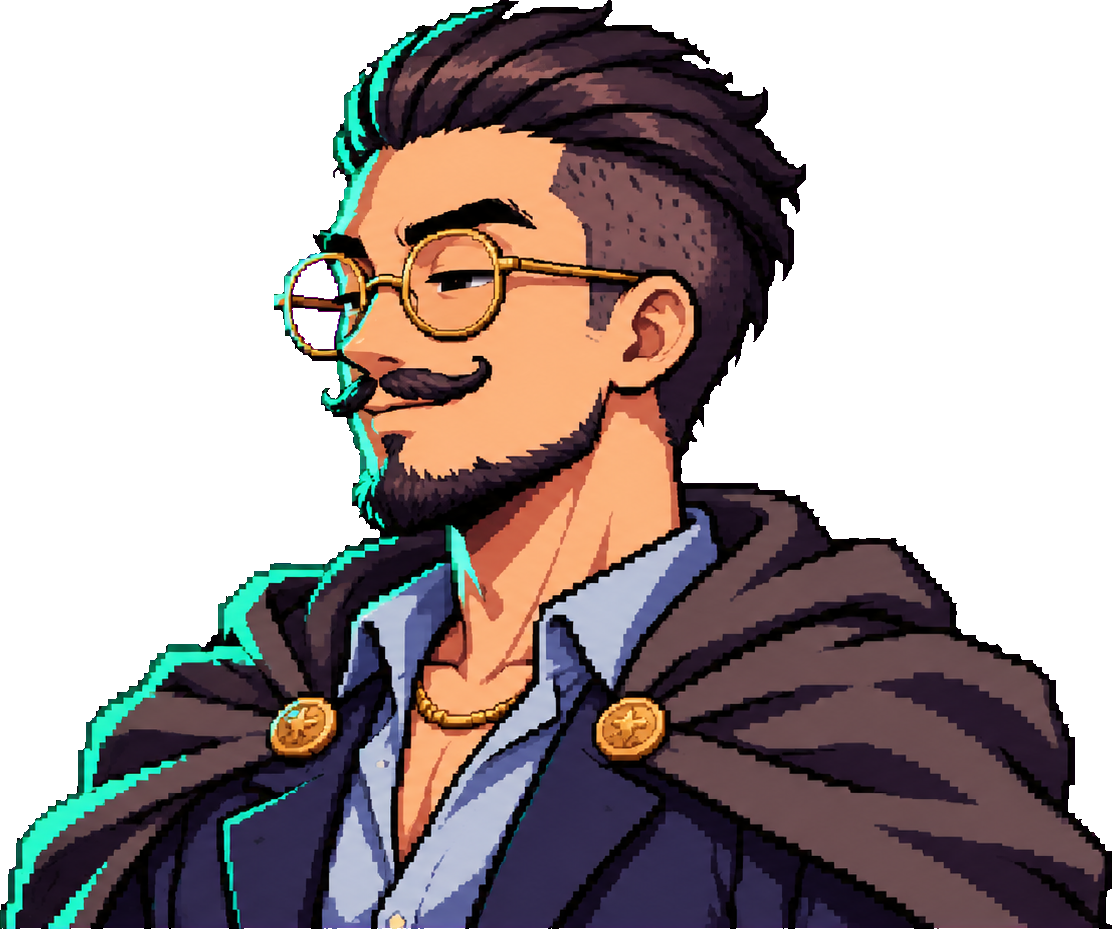
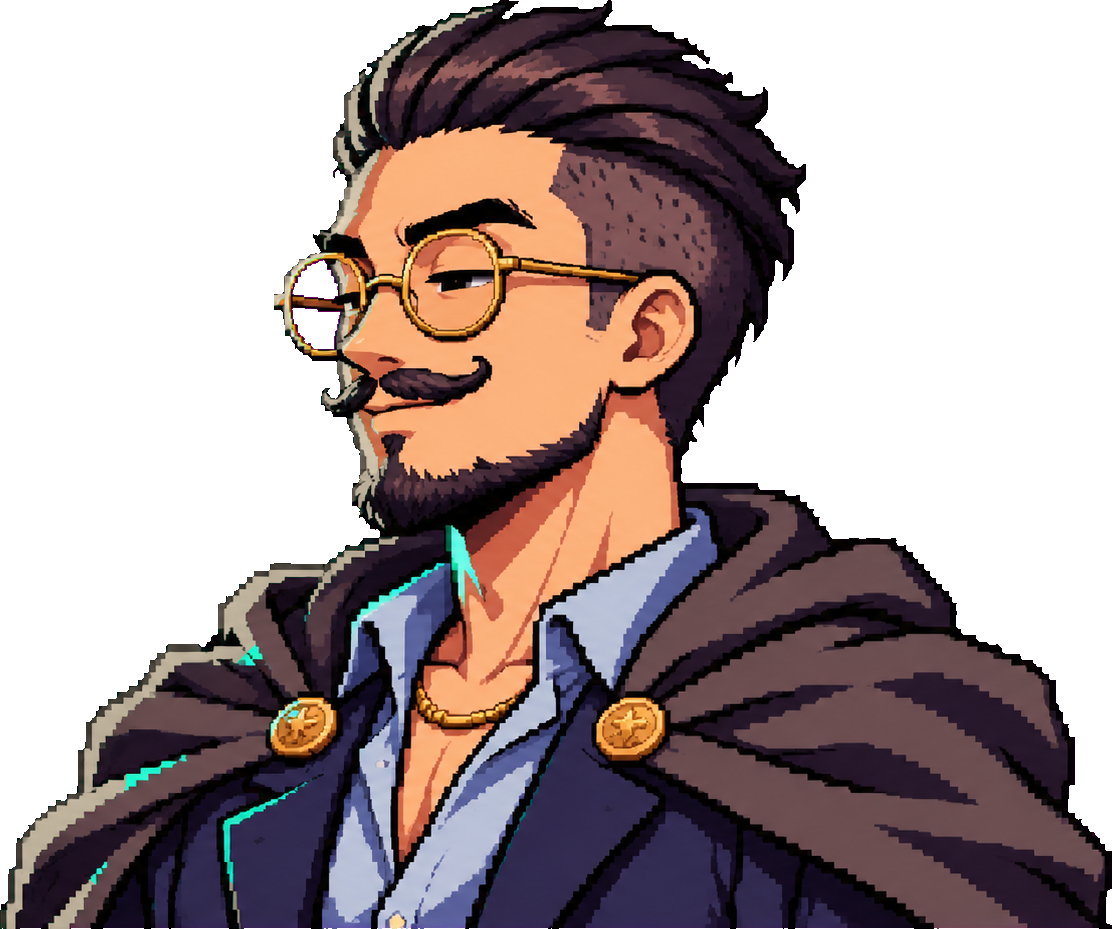
第三輪 UX 巡檢：超級狀態的標記、氣焰調淡、二週目開放的說明
- 超級狀態的人頭上有「超級　剩 N 回合」，議程頭像換成超級版；結束時用橫幅
- 氣焰調淡調窄；超級化的說明縮短
- 通關報告標出二週目開放與新內容；選週目預設最新；帶誰的卡片標可以超級化
- 老油條半身像的青綠邊光改成中性色

Changed region(s): [[0.0, 0.0312, 0.3975, 1.0], [0.3975, 0.0, 0.4281, 0.0312]]

diff --git a/js/game.js b/js/game.js
@@ -236,19 +236,21 @@ function playAutoSub(list, t0) { let t = t0; for (const x of list) { const out =
 // 候補區倒下的人被救起來：人不在場上，用橫幅講
 const benchUp = (t, id) => { box(t, 1.5, `候補的${DEFS[id].name}站起來了`); snd(t, 'holy_cast', .6); };
 // ---------- 超級化的演出（結構學使用者龍珠專案的變身影片 angaSs：整片底色＋中間一條黑帶放人物、黑帶上下震、氣焰三格循環、人物在一般版和超級版之間閃切先慢後快、最後定在超級版）----------
-const superOn = {}, auras = {}; let auraCv = null, auraTex = null; const tintCv = {};
+const superOn = {}, auras = {}, faceBase = {}; let auraCv = null, auraTex = null; const tintCv = {};
 // 氣焰：三張 40×56 的像素火焰（中間高、兩邊低、邊緣鋸齒），影片和場景共用
 function auraFrames() { if (auraCv) return auraCv; auraCv = [0, 1, 2].map(k => { const cv = document.createElement('canvas'), Wd = 40, Ht = 56; cv.width = Wd; cv.height = Ht; const x = cv.getContext('2d'), rn = (i, j) => { const v = Math.sin(i * 127.1 + j * 311.7 + k * 74.7) * 43758.5453; return v - Math.floor(v); };
     for (let i = 0; i < Wd; i++) { const cx = Math.abs(i - (Wd - 1) / 2) / (Wd / 2), spike = (i + k * 2) % 5 === 0 ? -9 : (i + k) % 3 === 0 ? -4 : 0, top = Math.max(0, Math.round(Ht * (.1 + .62 * cx * cx) + spike * (1 - cx * .5) + rn(i, 0) * 4));
       for (let j = top; j < Ht; j++) { const d = (j - top) / Math.max(1, Ht - top), rim = cx > .78 - .2 * d; if (rim && rn(i, j) > .6) continue; x.fillStyle = d < .14 || rim ? '#ff9a1e' : d < .42 ? '#ffd24a' : '#fff3b8'; x.fillRect(i, j, 1, 1); } } return cv; }); return auraCv; }
 function auraMesh() { if (!auraTex) auraTex = auraFrames().map(cv => { const t = new THREE.CanvasTexture(cv); t.magFilter = t.minFilter = THREE.NearestFilter; t.generateMipmaps = false; t.colorSpace = THREE.SRGBColorSpace; return t; });
-  const g = new THREE.PlaneGeometry(1, 1); g.translate(0, .5, 0); const m = new THREE.Mesh(g, new THREE.MeshBasicMaterial({ map: auraTex[0], transparent: true, opacity: .5, blending: THREE.AdditiveBlending, depthWrite: false, side: THREE.DoubleSide })); m.position.set(0, -.06, -.03); m.renderOrder = 1; return m; }
+  const g = new THREE.PlaneGeometry(1, 1); g.translate(0, .5, 0); const m = new THREE.Mesh(g, new THREE.MeshBasicMaterial({ map: auraTex[0], transparent: true, opacity: .3, blending: THREE.AdditiveBlending, depthWrite: false, side: THREE.DoubleSide })); m.position.set(0, -.06, -.05); m.renderOrder = 1; return m; }
 // 換造型：有超級版的圖就整組換，沒有就先染金色；身後加氣焰
-function setSuper(id, on) { const u = units[id]; if (!u || !!superOn[id] === !!on) return; superOn[id] = !!on; if (!u.baseFrames) { u.baseFrames = u.frames; u.baseS = u.s; u.baseCol = u.baseColor.clone(); }
+function setSuper(id, on) { const u = units[id]; if (!u || !!superOn[id] === !!on) return; superOn[id] = !!on; if (!faceBase[id]) faceBase[id] = A.face[id]; A.face[id] = on && A.face['s_' + id] ? A.face['s_' + id] : faceBase[id]; if (!u.baseFrames) { u.baseFrames = u.frames; u.baseS = u.s; u.baseCol = u.baseColor.clone(); }
   if (on && u.superFrames) { u.frames = u.superFrames; u.s = u.superS; } else { u.frames = u.baseFrames; u.s = u.baseS; } u.baseColor.copy(on && !u.superFrames ? new THREE.Color(0xffe39a) : u.baseCol);
   if (on && !auras[id]) { auras[id] = auraMesh(); u.group.add(auras[id]); } if (auras[id]) auras[id].visible = !!on; }
 const syncSuper = () => { for (const id of R.SUPERS) if (units[id]) setSuper(id, R.HEROES.includes(id) && R.isSuper(state, id)); };
-function tickSuper() { for (const id in auras) { const m = auras[id], u = units[id]; if (!m.visible) continue; m.material.map = auraTex[Math.floor(now * 13) % 3]; const rd = u.frames.ready.image; m.scale.set(rd.width / PPU * u.s * 2.1, rd.height / PPU * u.s * 1.38 * (1 + .03 * Math.sin(now * 21)), 1); } }
+// 場上：超級狀態的人頭上掛一張小牌，寫還剩幾回合（子 session 巡檢：變身後看不出誰是超級狀態）
+function drawSuperTags() { if (!['command', 'anim'].includes(phase) || S.film || panel || conf || sheet) return; for (const id of R.HEROES) { if (!superOn[id] || ko[id] || !R.isSuper(state, id) || !units[id] || !units[id].group.visible) continue; const [x, y] = S.proj(id, 1.0), lab = `超級　剩 ${state.super[id]} 回合`, w = mw(lab, 24, 900) + 28; c.fillStyle = 'rgba(30,14,0,.82)'; c.fillRect(x - w / 2, y - 112, w, 36); c.fillStyle = '#d8a02a'; c.fillRect(x - w / 2, y - 112, w, 3); text(lab, x, y - 86, { px: 24, w: 900, align: 'center', col: '#ffe27a' }); } }
+function tickSuper() { for (const id in auras) { const m = auras[id], u = units[id]; if (!m.visible) continue; m.material.map = auraTex[Math.floor(now * 13) % 3]; const rd = u.frames.ready.image; m.scale.set(rd.width / PPU * u.s * 1.55, rd.height / PPU * u.s * 1.3 * (1 + .03 * Math.sin(now * 21)), 1); } }
 function playSuper(r, t0) { const id = r.id, D = 4.4; S.film = { t0, id, dur: D }; snd(t0 + .5, 'boss_charge', .8); snd(t0 + 3.0, 'explosion_big', .6); snd(t0 + 3.05, 'holy_cast', .8); units[id].pose(t0, 'wind');
   at(t0 + 3.0, () => { setSuper(id, true); units[id].pose(now, 'ready'); }); S.hp[id].push({ t: t0 + 3.3, v: r.hp }); S.mo.push({ t: t0 + 3.3, v: r.mo }); cam.shake(t0 + D - .1, .16, .5); SFX.add('flash', t0 + D - .15, .45, { c: [255, 236, 160], a: .7 });
   at(t0 + D, () => { units[id].hop(now, .3, .4); syncBars(now); }); num(t0 + D + .05, id, '超級化！', 'text', { col: '#ffe27a', px: 38, y: 1.55 }); return t0 + D + .6; }
@@ -540,7 +542,7 @@ function nextTurn() {
     state.events.filter(e => e.kind === 'burn').forEach((e, i) => { const t = now + .55 + i * .3, big = e.dst === 'boss'; fx('explosions/small-explosion', t - .1, e.dst, { scale: big ? 1.5 : 1, y: big ? 1.0 : .3, palette: 'fire' }); num(t - .2, e.dst, '灼燒', 'text', { col: '#ff9a5a', px: 28, y: big ? .75 : 1.3 }); applyHit(t, { dst: e.dst, v: e.v, hp: e.hp, kill: e.kill }, { snd: 'hit', vol: .5 }); te = Math.max(te, t + .75); });
     state.events.filter(e => e.kind === 'poison').forEach((e, i) => { const t = now + .6 + i * .25, big = e.dst === 'boss'; num(t - .2, e.dst, '中毒', 'text', { col: '#b8e07a', px: 28, y: big ? .75 : 1.3 }); applyHit(t, { dst: e.dst, v: e.v, hp: e.hp, kill: e.kill }, { snd: sfxOr('poison', 'hit'), vol: .45 }); te = Math.max(te, t + .7); });
     state.events.filter(e => e.kind === 'rage').forEach(e => { sndIf(now + 1.0, 'rage', .7); box(now + 1.0, 1.4, `拖太久了　敵人的傷害 ＋${Math.round((e.k - 1) * 100)}%`, true); te = Math.max(te, now + 1.6); });
-    state.events.filter(e => e.kind === 'superEnd').forEach(e => { if (!units[e.who] || !R.HEROES.includes(e.who)) return; num(now + .45, e.who, '超級化結束', 'text', { col: '#e8dcc0', px: 28, y: 1.5 }); at(now + .4, syncSuper); });
+    { const ended = state.events.filter(e => e.kind === 'superEnd' && units[e.who] && R.HEROES.includes(e.who)).map(e => e.who); if (ended.length) { box(now + 1.0, 1.5, `${ended.map(h => DEFS[h].name).join('、')}的超級化結束了`); ended.forEach(h => fx('spawn/poof', now + 1.0, h, { scale: 1.2, y: .6 })); at(now + 1.05, syncSuper); te = Math.max(te, now + 1.9); } }
     state.events.filter(e => e.kind === 'petLeave').forEach((e, i) => { if (!units[e.who]) return; num(now + .35 + i * .12, e.who, '下班了', 'text', { col: '#e8dcc0', px: 26, y: 1.2 }); petOut(e.who, now + .75 + i * .12); te = Math.max(te, now + 1.25); });
     state.events.filter(e => e.kind === 'late').forEach(e => { for (const h of e.who) if (units[h]) num(now + .5, h, '過號　這回合最後才動', 'text', { col: '#ffb0a0', px: 28, y: 1.6 }); });
     state.events.filter(e => e.kind === 'rush').forEach(e => { num(now + .5, e.who, '急件插隊　最先動', 'text', { col: '#ff8a70', px: 28, y: 1.35 }); });
@@ -560,7 +562,7 @@ function nextTurn() {
 }
 // 教學便條：第一次遇到某個狀況，輪到玩家下指令時在左上角貼一張（不擋中間），下完這一步就收起來。看過的記在 PREF.tips，之後不再出現
 const TIP_BTN = { super: '超級化', swap: '換人', unite: '技能', ult: '奧義', charge: '防禦', tw_pot: '防禦', locks: '技能', combo: '技能', tw_night: '攻擊', tw_roof: '技能', audit: '奧義' };      // 便條對應的指令按鈕
-const TIPS = { super: ['超級化', '氣勢滿 100，指令多了一個「超級化」。', '三回合內傷害加倍、招式不花 SP；每人每場一次。'], pets: ['召喚的老鼠', '灰鼠、棕鼠在場三回合，輪到牠們會自己動。', '棕鼠擋單體攻擊，灰鼠送黑咖啡、咬敵人。'], blind: ['看不出敵人的打算', '現在看不到敵人的弱點，也不知道他們下一步要做什麼。', '小燕或學姊在場時才看得到。'], sense: ['看得出敵人的打算了', '小燕、學姊在場時，敵人頭上會出現弱點格和下一步要做什麼。', '她們倒下就又看不到了。'], basics: ['怎麼打', '攻擊、招式、防禦都會累積上方的「氣勢」。', '氣勢到 40 就能放奧義；招式只花 SP。'], ult: ['奧義可以放了', '放奧義會用掉 40 氣勢和自己的 SP。', '氣勢全隊共用，想清楚給誰放。'],
+const TIPS = { super: ['超級化', '氣勢滿 100 可以變身：用掉 60 氣勢，不算一次行動。', '三回合內傷害加倍、招式不花 SP；每人每場一次。'], pets: ['召喚的老鼠', '灰鼠、棕鼠在場三回合，輪到牠們會自己動。', '棕鼠擋單體攻擊，灰鼠送黑咖啡、咬敵人。'], blind: ['看不出敵人的打算', '現在看不到敵人的弱點，也不知道他們下一步要做什麼。', '小燕或學姊在場時才看得到。'], sense: ['看得出敵人的打算了', '小燕、學姊在場時，敵人頭上會出現弱點格和下一步要做什麼。', '她們倒下就又看不到了。'], basics: ['怎麼打', '攻擊、招式、防禦都會累積上方的「氣勢」。', '氣勢到 40 就能放奧義；招式只花 SP。'], ult: ['奧義可以放了', '放奧義會用掉 40 氣勢和自己的 SP。', '氣勢全隊共用，想清楚給誰放。'],
   charge: ['頭目在蓄力', '他下一次行動會打全體。', '現在防禦，或用坦克的招式、奧義擋下來。'], broken: ['頭目理虧了', '底氣歸零：他下一次行動取消。', '這段時間打他的傷害是 1.5 倍，趁現在全力打。'],
   guard: ['護衛中', '小兵還在場上時，打頭目沒有傷害。', '先把小兵清掉。'], pot: ['甩鍋', '課長每回合第一次被打，會甩給小兵承受。', '先用小招騙掉這一下，再放大招。'], audit: ['考績魔導士', '她的大招除了打全體，還會扣 40 氣勢。', '奧義亮了就放，不要存。'],
   parrot: ['鸚鵡長官', '他自己不出主意，只會「附議」一隻小兵，照抄那隻的行動。', '先打倒被附議的小兵，他那一次行動就落空。'], monkey: ['猴子長官', '他蓄力時會把大招丟給一隻小兵當「臨時專案」。', '在他放大招之前打倒那隻小兵，大招就落空。'],
@@ -623,7 +625,7 @@ function openMenu(kind, arg) {
     items = [isBack ? { label: '應援', sub: `氣勢 ＋${R.MO.cheer}　SP ＋${R.CHEER_SP}`, go: () => act(R.doCheer(state, id)), hint: `幫全隊加氣勢，前排每個人回 ${R.CHEER_SP} SP。氣勢到 ${R.ultMo(run)} 就能放奧義，全隊共用。` } : { label: '攻擊', sub: `${R.TYPES[R.ATK_TYPE[id]]}屬性・回 SP` + (state.locks && state.locks.includes(R.ATK_TYPE[id]) ? '・拆鎖' : ''), go: () => openMenu('target'), hint: `普攻附帶：${R.RIDER[id]}。` + (R.guarded(state) ? '小兵還在的時候打不到魔王。' : S.pot() ? '課長每回合被打的第一下會甩給小兵。' : '') },
       { label: '技能', sub: uOk ? '★ 合體技可以放' : anySk ? `${skills.filter(k => R.skillOk(state, id, k)).length} 招可以用` : skills.length ? '現在用不了' : '還沒學會', off: !anySk && !uOk, go: () => openMenu('skills'), hint: uOk ? `合體技「${uOk.name}」現在可以放（在技能裡）。各自的招式只花 SP，不用氣勢。` : '各自的招式：只花 SP，不用氣勢。' },
       { label: '奧義', sub: needBp ? `氣勢 ${state.mo}／${R.ultMo(run)}` : needSp ? 'SP 不足' : `SP ${R.STAT[id].cost}　${d.skill}`, off: needBp || needSp, go: () => act(R.doUlt(state, id)), hint: d.desc, gold: !needBp && !needSp },
-      ...(R.superOpen(run) && R.SUPERS.includes(id) && !isBack ? [{ label: '超級化', sub: R.isSuper(state, id) ? `超級狀態　剩 ${state.super[id]} 回合` : state.superUsed[id] ? '這一場用過了' : state.mo < R.SUPER.mo ? `氣勢 ${state.mo}／${R.SUPER.mo}` : '現在可以變身', off: !R.canSuper(state, id), gold: R.canSuper(state, id), go: () => act(R.doSuper(state, id)), hint: `氣勢滿 ${R.SUPER.mo} 才能變身，用掉 ${R.SUPER.cost}。${R.SUPER.rounds} 回合內傷害 ×${R.SUPER.atk}、受傷 −30%、速度 ＋30%、招式不花 SP，HP 回滿；不用掉這次行動。每人每場一次。` }] : []),
+      ...(R.superOpen(run) && R.SUPERS.includes(id) && !isBack ? [{ label: '超級化', sub: R.isSuper(state, id) ? `超級狀態　剩 ${state.super[id]} 回合` : state.superUsed[id] ? '這一場用過了' : state.mo < R.SUPER.mo ? `氣勢 ${state.mo}／${R.SUPER.mo}` : '現在可以變身', off: !R.canSuper(state, id), gold: R.canSuper(state, id), go: () => act(R.doSuper(state, id)), hint: `不用掉行動，每場一次。氣勢滿 ${R.SUPER.mo} 可變身（用掉 ${R.SUPER.cost}）：${R.SUPER.rounds} 回合傷害 ×${R.SUPER.atk}、招式不花 SP、HP 回滿。` }] : []),
       { label: '道具', sub: anyItem ? '回復・復活' : '現在用不到', off: !anyItem, go: () => openMenu('items'), hint: '珍珠奶茶補 HP，黑咖啡補 SP，雞排便當讓倒下的同伴復活（候補區的也行）。' },
       ...(!isBack && R.bench(state).length ? [{ label: '換人', sub: (state.swapRound === state.round ? '要用掉行動　' : '不用掉行動　') + `候補：${R.bench(state).map(h => DEFS[h].name).join('、')}`, go: () => openMenu('swap'), hint: state.swapRound === state.round ? '這回合已經換過一次了：再換會用掉這次行動，換上來的人下一回合才行動。' : '把自己換下去、換一位候補上來。每回合第一次換人不用掉行動：換上來的人接著行動。候補每回合回三分之一 HP 和 SP。' }] : []),
       { label: '防禦', sub: '受傷減半', go: () => act(R.doDefend(state, id)), hint: `到下次行動前受傷減半，回 10 SP、氣勢 ＋${R.MO.defend}，下回合速度 ＋20%。` }];
@@ -703,8 +705,8 @@ const sayJoin = (ids, then) => openTalk([].concat(ids).filter(id => TALK.join[id
 // 對話畫面：兩個人的立繪眼睛對齊同一條線，整張臉都在對話框上面；沒在講話的人變暗
 function drawTalk() { const T = menu.talk, [who, line] = T.lines[T.i], d = DEFS[who], last = T.i >= T.lines.length - 1; drawTable(.72); zones.push({ x: 0, y: 0, w: W, h: H, i: 0, off: false, soft: true });
   T.cast.forEach((id, k) => { const im = A.bust[id]; if (!im) return; const bh = 640, bw = bh * im.width / im.height, on = id === who, x = (k === 0 ? 520 : W - 520) - bw / 2, y = 450 - (EYE[id] || .38) * bh + (on ? 0 : 22); c.save(); c.globalAlpha = on ? 1 : .4; pix(im, x, y, bw, bh); c.restore(); });
-  const bx = 240, bw2 = W - 480, by = 770, bh2 = 256, right = T.cast.indexOf(who) === 1, nw = Math.max(300, mw(d.name, 42, 900, SERIF) + mw(d.tag || d.job, 26, 700) + 90), nx = right ? bx + bw2 - nw - 36 : bx + 36; skin.paper(bx, by, bw2, bh2);
-  skin.wood(nx, by - 50, nw, 76, { studs: false }); text(d.name, nx + 26, by + 4, { px: 42, w: 900, fam: SERIF, col: CREAM, ls: 4, stroke: 'rgba(20,10,4,.7)', sw: 5 }); text(d.tag || d.job, nx + nw - 24, by + 2, { px: 26, w: 700, align: 'right', col: BRASS });
+  const bx = 240, bw2 = W - 480, by = 770, bh2 = 256, right = T.cast.indexOf(who) === 1, nw = Math.max(300, mw(d.name, 42, 900, SERIF) + mw(d.job || d.tag, 26, 700) + 90), nx = right ? bx + bw2 - nw - 36 : bx + 36; skin.paper(bx, by, bw2, bh2);
+  skin.wood(nx, by - 50, nw, 76, { studs: false }); text(d.name, nx + 26, by + 4, { px: 42, w: 900, fam: SERIF, col: CREAM, ls: 4, stroke: 'rgba(20,10,4,.7)', sw: 5 }); text(d.job || d.tag, nx + nw - 24, by + 2, { px: 26, w: 700, align: 'right', col: BRASS });
   wrap(line, bw2 - 120, 44).slice(0, 3).forEach((s, k) => text(s, bx + 60, by + 104 + k * 60, { px: 44, w: 700, col: INK }));
   text(last ? '點一下繼續 ▶' : `點一下看下一句（${T.i + 1}／${T.lines.length}）▼`, bx + bw2 - 44, by + bh2 - 26, { px: 26, w: 700, align: 'right', col: INK2 }); sheetBtn('跳過', 50, 30, 260, 88, 1, false); }
 // 開局的選擇頁（路線、週目、加班、主角、招式、帶誰、職位）一路走過來的紀錄：每一頁左上角都有「回上一頁」，第一頁回標題
@@ -724,9 +726,9 @@ const recLine = (map, first) => { const r0 = (PREF.rec || {})[map], ot = (PREF.o
 const cycMax = map => Math.max(1, Math.min(R.CYCLE_MAX, (PREF.cyc || {})[map] || 1)), carryPool = id => ((PREF.team || {})[mapKey] || []).filter(h => R.ALL.includes(h) && h !== 'vivi' && h !== id && units[h]);
 let cycKey = 1, carryKey = null;
 function pickCycle() { const mx = cycMax(mapKey); cycKey = 1; carryKey = null; if (mx < 2) return pickOt();
-  flowCards('cycle', pickCycle, { title: '這是第幾週目？', sub: '週目越後面敵人越硬，但可以從上一輪通關的隊伍裡帶人一起出發。通關才會開下一個週目。', foot: '選一個', items: Array.from({ length: mx }, (_, i) => i + 1).map(v => ({ label: R.CYCLE_NAME[v - 1], tag: v === 1 ? '正常難度' : `敵人的血與攻擊 ×${R.CYCLE_K[v - 1]}`, icon: v === 1 ? 'rest' : v === 2 ? 'elite' : 'boss', big: true, lines: v === 1 ? ['一個人出發', '第一場有另一位主角陪打'] : v === 2 ? ['開局多帶一位上一輪的同事', '普攻、防禦回的 SP 加倍', '開局道具加倍', '氣勢滿了可以「超級化」'] : ['多帶一位同事，Vivi 也一起出發', '普攻、防禦回的 SP 加倍', '開局道具加倍', '氣勢滿了可以「超級化」'], go: () => { cycKey = v; pickOt(); } })) }); }
+  flowCards('cycle', pickCycle, { title: '這是第幾週目？', sub: '週目越後面敵人越硬，但可以從上一輪通關的隊伍裡帶人一起出發。通關才會開下一個週目。', foot: '選一個', items: Array.from({ length: mx }, (_, i) => i + 1).map(v => ({ label: R.CYCLE_NAME[v - 1], tag: v === 1 ? '正常難度' : `敵人的血與攻擊 ×${R.CYCLE_K[v - 1]}`, icon: v === 1 ? 'rest' : v === 2 ? 'elite' : 'boss', big: true, lines: v === 1 ? ['一個人出發', '第一場有另一位主角陪打'] : v === 2 ? ['開局多帶一位上一輪的同事', '普攻、防禦回的 SP 加倍', '開局道具加倍', '氣勢滿了可以「超級化」'] : ['多帶一位同事，Vivi 也一起出發', '普攻、防禦回的 SP 加倍', '開局道具加倍', '氣勢滿了可以「超級化」'], go: () => { cycKey = v; pickOt(); } })) }); focus = mx - 1; }
 function pickCarry(id, key) { carryKey = null; const pool = cycKey >= 2 ? carryPool(id) : []; if (!pool.length) return pickJob(id, key); if (pool.length === 1) { carryKey = pool[0]; return pickJob(id, key); }
-  flowCards('carry', () => pickCarry(id, key), { title: '帶誰一起出發？', sub: `${R.CYCLE_NAME[cycKey - 1]}：從上一輪通關的隊伍裡帶一位` + (cycKey >= 3 ? '，Vivi 也會一起來。' : '。'), foot: '選一位', items: pool.slice(0, 5).map(h => heroCard(h, () => { carryKey = h; pickJob(id, key); })) }); }
+  flowCards('carry', () => pickCarry(id, key), { title: '帶誰一起出發？', sub: `${R.CYCLE_NAME[cycKey - 1]}：從上一輪通關的隊伍裡帶一位` + (cycKey >= 3 ? '，Vivi 也會一起來。' : '。'), foot: '選一位', items: pool.slice(0, 5).map(h => { const cd = heroCard(h, () => { carryKey = h; pickJob(id, key); }); return { ...cd, tag: cd.tag + (R.SUPERS.includes(h) ? '　★ 可以超級化' : '') }; }) }); }
 function start() { AC.resume(); playMusic('bgm/map'); saved = null; cycKey = 1; carryKey = null; jobOffer = null; if (Q.has('map')) { mapKey = R.MAPS[Q.get('map')] ? Q.get('map') : 'office'; cycKey = Math.max(1, Math.min(R.CYCLE_MAX, +Q.get('cycle') || 1)); return pickStarter(); }      // 測試用：&cycle=2&carry=kevin
   if (!(PREF.seen || []).length && !PREF.rec && !Q.has('routes')) { mapKey = 'office'; otKey = 0; return pickStarter(); }      // 第一次玩：不用選路線，直接走一般行程（打過一場之後才會出現四條路線可以選；&routes 可以強制顯示）
   flowCards('route', start, { title: '今天走哪一條路線？', sub: '招募、休息、事件每條路線都有；差別在對手、站數和岔路。', foot: '選一條路線', items: [
@@ -774,7 +776,7 @@ function beginRun(id, key) { NAV.length = 0; run = R.newRun(RAND, id, key, mapKe
   if (Q.get('back')) R.setBack(run, Q.get('back'));      // 測試用：&back=wu 指定誰站後排
   const guest = Q.has('stage') || Q.has('floor') || Q.has('solo') ? null : R.addGuest(run); if (guest) met(guest);      // 第一場有另一位主角陪打（測試網址跳關時不加；&solo 可以關掉）
   R.prepare(run); snd(now, 'buff', .8); const hubMsg = () => openHub(`${DEFS[id].name}出發，第一招「${R.SKILLS[id].find(k => k.key === key).name}」` + (run.job ? `　代理${R.JOBS[run.job][0]}` : '') + (run.job === 'hr' && run.roster[1] && run.roster[1] !== guest ? `　${DEFS[run.roster[1]].name}同行` : '') + (guest ? `　${DEFS[guest].name}陪你打第一場` : '') + (run.cycle >= 2 ? `　${R.CYCLE_NAME[run.cycle - 1]}` + (run.carry.length ? `，${run.carry.map(h => DEFS[h].name).join('、')}同行` : '') : ''));
-  const opening = () => { const key = `${id}+${guest}`, seen = PREF.talked || (PREF.talked = []), first = guest && TALK.open[key] && (!seen.includes(key) || Q.has('talk')) ? TALK.open[key] : null; if (first && !seen.includes(key)) { seen.push(key); savePref(); } const others = run.roster.filter(h => h !== id && h !== guest); return openTalk(first || others.filter(h => TALK.join[h]).map(h => [h, TALK.join[h]]), hubMsg); };      // 第一次用這個組合：開場對話；二週目以後帶來的同事各說一句
+  const opening = () => { const key = `${id}+${guest}`, seen = PREF.talked || (PREF.talked = []), first = guest && TALK.open[key] && (!seen.includes(key) || Q.has('talk')) ? TALK.open[key] : null; if (first && !seen.includes(key)) { seen.push(key); savePref(); } const others = run.roster.filter(h => h !== id && h !== guest); return openTalk(first || others.filter(h => TALK.join[h]).flatMap(h => run.carry.includes(h) ? [[h, '上一輪合作愉快，這一輪我也跟。'], [h, TALK.join[h]]] : [[h, TALK.join[h]]]), hubMsg); };      // 第一次用這個組合：開場對話；二週目以後帶來的同事各說一句
   const ST = STORY[run.map], seenIntro = PREF.intro || (PREF.intro = []); if (!ST || (Q.has('map') && !Q.has('intro')) || (seenIntro.includes(run.map) && !Q.has('intro'))) return opening(); seenIntro.push(run.map); savePref();
   openCards({ title: ST.title, sub: '', foot: '', wide: true, items: [{ label: '出發', icon: ST.icon, big: true, lines: ST.intro, go: opening }] }); }
 function openRecruit(i) { const nd = run.node, list = (run.offers[run.floor] || {})[i] || [], out = R.swapOut(run); if (!list.length || out === null) { R.advance(run); return openHub('這一站沒有人可以帶'); }
@@ -882,6 +884,7 @@ function chooseNode(i) { if (i < 0) return; const nd = R.enterNode(run, i); menu
   else if (nd.type === 'event') openEvent();
   else openUpgrade(true); }
 function finish() {
+  for (const id of R.SUPERS) setSuper(id, false);
   bBase = null; replay = null;
   endFx(aegisFx); endFx(bulwarkFx);      // 護盾罩不要留到結算畫面
   phase = 'end'; menu = null; actor = null; const t0 = now + .2, last = R.isFinal(run), hud = S.ui.at(-1), L = state.L;
@@ -1224,7 +1227,7 @@ function drawReport() { const k = report; if (!k || now < k.t0) return; zones = 
   if (k.win && STORY[run.map] && el > 2.4) { const a = easeOut(sat((el - 2.4) / .6)), ls = STORY[run.map].end, ex = 1020, ew = 872, ey = 792 + (1 - a) * 24, eh = 74 + ls.length * 52; c.save(); c.globalAlpha = a; skin.paper(ex, ey, ew, eh, { clips: [ex + ew - 90] }); c.fillStyle = RED; c.fillRect(ex + 36, ey + 30, 6, 24); text('後記', ex + 54, ey + 52, { px: 24, w: 900, col: INK, ls: 6 });
     ls.forEach((t, i) => { c.globalAlpha = a * easeOut(sat((el - 2.8 - i * .7) / .6)); text(fit(t, ew - 72, 30, 700), ex + 36, ey + 102 + i * 52, { px: 30, w: 700, col: INK }); }); c.restore(); }
   c.save(); c.globalAlpha = sat(el / .25); skin.wood(X, Y, PW, PH); skin.paper(X + 20, Y + 20, PW - 40, PH - 40, { clips: [X + 130, X + PW - 130] });
-  text('結案報告', L, Y + 130, { px: 78, w: 900, fam: SERIF, col: INK, ls: 10 }); text(k.win ? `討伐${DEFS.boss.name}　` + (k.cycle > 1 || k.cycUp ? `${R.CYCLE_NAME[k.cycle - 1]}通關` + (k.cycUp ? `・${R.CYCLE_NAME[k.cycUp - 1]}開放` : '') : `${nF} 站全部走完`) : `倒在第 ${k.floor + 1} 站「${k.stage}」` + (k.bossHp != null ? `　對方還剩 ${k.bossHp}% 的血` : ''), L + 4, Y + 174, { px: 24, w: 700, col: INK2, ls: 2 }); c.fillStyle = INK; c.fillRect(L, Y + 192, IW, 3); text('打法：' + (k.style.length ? k.style.join('・') : '還看不出來'), L + IW, Y + 174, { px: 22, w: 900, align: 'right', col: RED });
+  text('結案報告', L, Y + 130, { px: 78, w: 900, fam: SERIF, col: INK, ls: 10 }); text(k.win ? `討伐${DEFS.boss.name}　` + (k.cycle > 1 || k.cycUp ? `${R.CYCLE_NAME[k.cycle - 1]}通關` + (k.cycUp ? `・${R.CYCLE_NAME[k.cycUp - 1]}開放` : '') : `${nF} 站全部走完`) : `倒在第 ${k.floor + 1} 站「${k.stage}」` + (k.bossHp != null ? `　對方還剩 ${k.bossHp}% 的血` : ''), L + 4, Y + 174, { px: 24, w: 700, col: INK2, ls: 2 }); c.fillStyle = INK; c.fillRect(L, Y + 192, IW, 3); text('打法：' + (k.style.length ? k.style.join('・') : '還沒定型'), L + IW, Y + 174, { px: 22, w: 900, align: 'right', col: k.style.length ? RED : INK2 }); if (k.win && k.cycUp) { const bx = L + IW - 560, by2 = Y + 44; c.fillStyle = '#2b1f18'; c.fillRect(bx, by2, 560, 92); c.fillStyle = '#d8a02a'; c.fillRect(bx + 4, by2 + 4, 552, 84); text(`${R.CYCLE_NAME[k.cycUp - 1]}開放了`, bx + 20, by2 + 40, { px: 30, w: 900, fam: SERIF, col: '#2b1f18', ls: 4 }); text(k.cycUp >= 3 ? '多帶一位同事，Vivi 也一起出發' : '多帶一位同事・道具與 SP 回復加倍・可以超級化', bx + 20, by2 + 74, { px: 22, w: 700, col: '#2b1f18' }); }
   // 路線：走過的站連成紅線；倒下的那一站打叉；沒走到的是虛線圈
   { const y0 = Y + 244, gap = (IW - 68) / (nF - 1), cy = y0 + 62, cx = i => L + 34 + i * gap, last = k.win ? nF - 1 : k.floor; head('路線', y0, 0);
     c.strokeStyle = 'rgba(43,31,24,.3)'; c.lineWidth = 4; c.setLineDash([3, 9]); c.beginPath(); c.moveTo(cx(0), cy); c.lineTo(cx(nF - 1), cy); c.stroke(); c.setLineDash([]); if (last > 0) { c.strokeStyle = '#c23b2e'; c.lineWidth = 6; c.beginPath(); c.moveTo(cx(0), cy); c.lineTo(cx(last), cy); c.stroke(); }
@@ -1322,7 +1325,7 @@ function frame(ts) {
   arena.update(now); for (const id in units) units[id].update(now); for (const u of spareUnits()) u.update(now); tickSuper();
   for (const id of R.FRONT) if (ko[id]) { const m = units[id].mesh; if (units[id].frames.ko) m.material.color.multiplyScalar(.82); else { m.material.color.multiplyScalar(.3); m.scale.y *= .62; } }
   FXL.update(now); cam.update(now); for (const id in units) { const u = units[id]; u.x = u.group.position.x; }
-  if (!((phase === 'hub' || phase === 'pick') && A.map.table)) E.render(1); ui.draw(now, SFX); c.globalAlpha = 1; { const mv = S.mo.filter(k => k.t <= now).at(-1)?.v ?? state.mo; moShown += (mv - moShown) * .18; } drawStageCard(); drawMenu(); drawOverlay(); drawSuperFilm();
+  if (!((phase === 'hub' || phase === 'pick') && A.map.table)) E.render(1); ui.draw(now, SFX); c.globalAlpha = 1; { const mv = S.mo.filter(k => k.t <= now).at(-1)?.v ?? state.mo; moShown += (mv - moShown) * .18; } drawStageCard(); drawSuperTags(); drawMenu(); drawOverlay(); drawSuperFilm();
   if (now > pruneAt) { pruneAt = now + 2; FXL.prune(now); S.nums = S.nums.filter(n => n.t > now - 4); S.boxes = S.boxes.filter(b => b.t1 > now - 1); S.items = S.items.filter(k => k.t0 > now - 3); S.subs = S.subs.filter(k => k.t0 > now - 8); S.cutins = S.cutins.filter(k => k.t0 > now - 4); S.cards = S.cards.filter(k => k.t1 > now - 1); S.menus.length = 0; }
   requestAnimationFrame(frame);
 }
